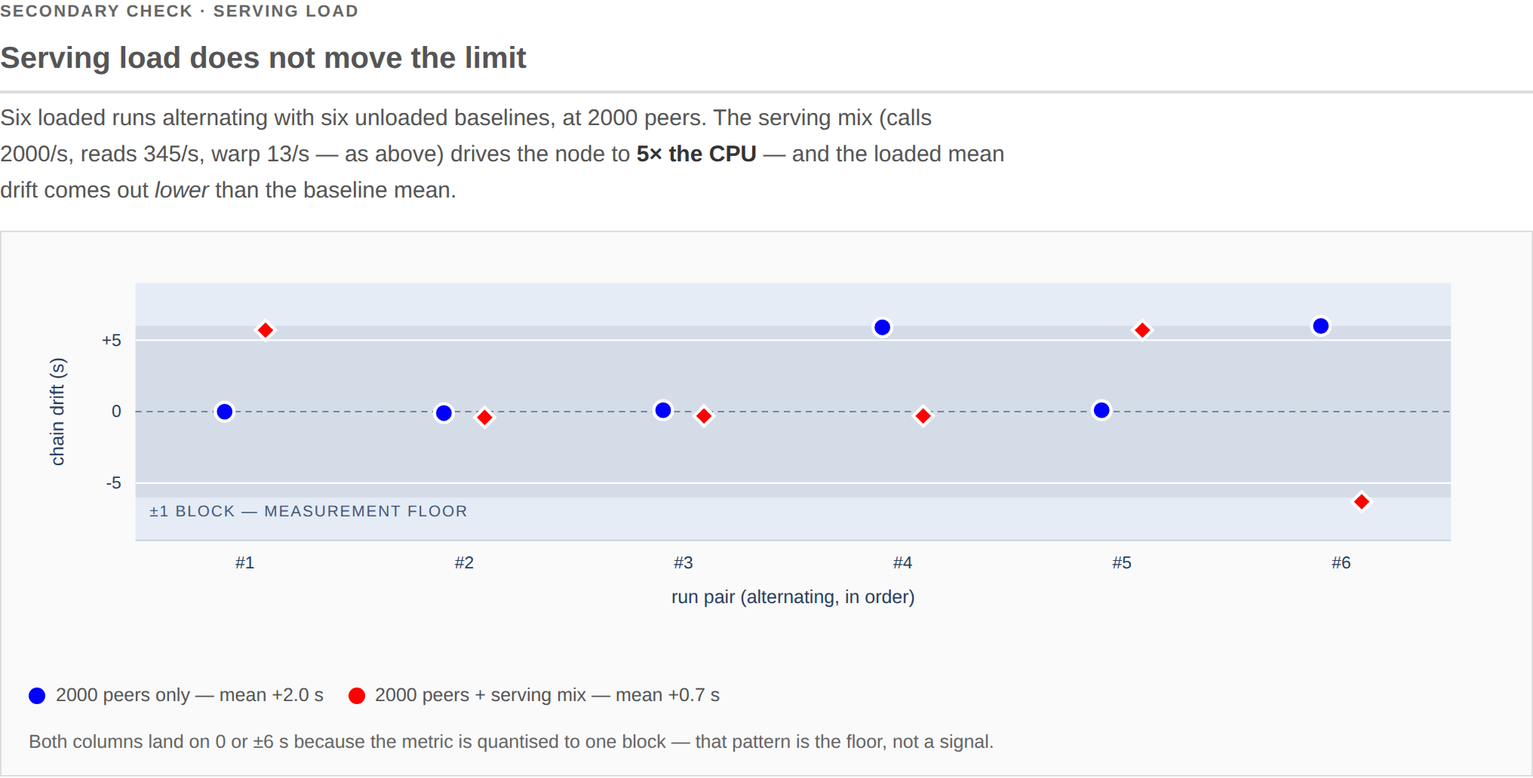
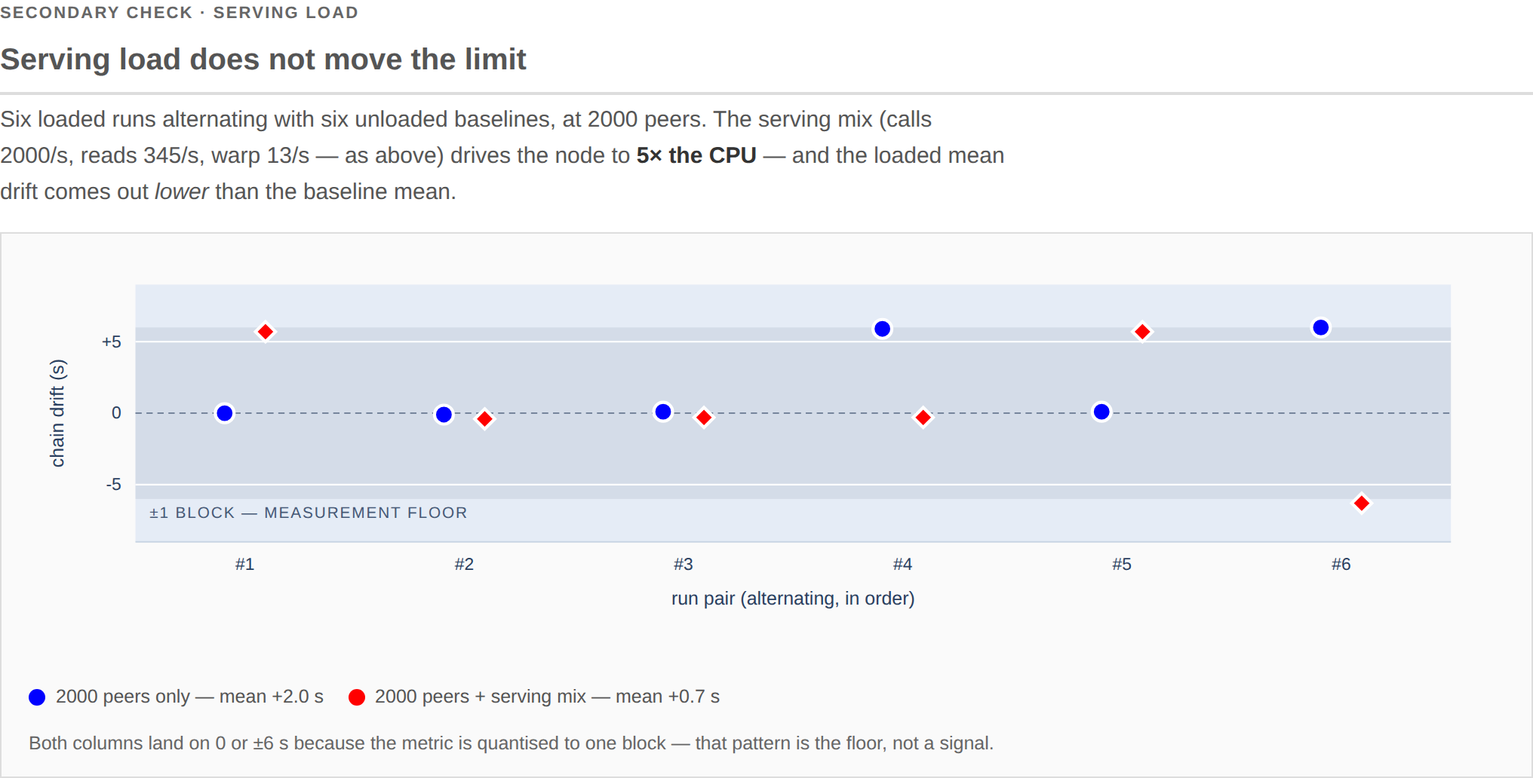
report: 2026-08-09T16:15Z

diff --git a/index.html b/index.html
@@ -87,7 +87,8 @@
   .zero-line { stroke: var(--axis); stroke-width: 1; stroke-dasharray: 4 3; opacity: .55; }
   .tick { font-size: 11px; fill: var(--axis); font-variant-numeric: tabular-nums; }
   .axis-title { font-size: 12px; fill: var(--axis); }
-  .mark-label { font-size: 11px; fill: var(--axis); font-variant-numeric: tabular-nums; font-weight: 700; }
+  .mark-label { font-size: 11px; fill: var(--axis); font-variant-numeric: tabular-nums; font-weight: 700;
+    paint-order: stroke; stroke: var(--plot); stroke-width: 3px; }
   .band-label { font-size: 10px; fill: var(--axis); letter-spacing: .09em; text-transform: uppercase; opacity: .85;
     paint-order: stroke; stroke: var(--plot); stroke-width: 3px; }
 
@@ -233,7 +234,7 @@
       requests. The <strong>serving mix</strong> is that request load: while holding the peers, the
       node also answers runtime-call proofs at 2000/s and runtime-code reads at 345/s (both
       <code>/light/2</code>) plus warp-sync proofs at 13/s (<code>/sync/warp</code>) — each about
-      half of what it can serve solo. Every sample stays within two blocks of zero and 94% within
+      half of what it can serve solo. Every sample stays within two blocks of zero and 96% within
       one — the sawtooth <em>is</em> that quantisation, not the node moving.</p>
     </div>
     <div class="card">
@@ -255,8 +256,10 @@
       <div class="legend" id="l-rsstrace"></div>
       <div class="card-note" id="n-rsstrace">Plotted as growth from each run's start because the
       absolute levels are not comparable: the node was not restarted between runs, and the
-      serving-mix soaks leave memory behind that a load stop does not return. The growth itself
-      is a <em>serving</em> observation — peers alone do not produce it.</div>
+      serving-mix soaks leave memory behind that a load stop does not return. The peers-only run
+      grows too (~200 MB/h at steady connection counts), so the growth is not attributable to
+      serving alone — it is unattributed pending a heap profile. Block import kept pace
+      throughout every run here.</div>
     </div>
     <div class="kpis" id="longkpis"></div>
   </section>
@@ -351,7 +354,7 @@
 </div>
 
 <script>
-const D = {"peerRuns": [{"run": "light-100", "peers": 100, "drift": 1.3, "blocks": 48, "window": 295, "held": 100, "coverage": 100.0, "spread50": 1.3, "spread90": 1.7, "spread99": 2.1, "spreadMax": 3.8, "refused": 0, "evicted": 0, "rss": 1271, "cpu": 46, "fds": 1408, "finlag_mean": 2.9, "finlag_max": 4}, {"run": "light-200", "peers": 200, "drift": 1.3, "blocks": 49, "window": 295, "held": 200, "coverage": 100.0, "spread50": 2.2, "spread90": 2.8, "spread99": 3.1, "spreadMax": 3.5, "refused": 0, "evicted": 0, "rss": 1461, "cpu": 50, "fds": 1344, "finlag_mean": 2.9, "finlag_max": 5}, {"run": "light-500", "peers": 500, "drift": 1.4, "blocks": 46, "window": 295, "held": 500, "coverage": 100.0, "spread50": 5.4, "spread90": 6.4, "spread99": 7.3, "spreadMax": 7.4, "refused": 0, "evicted": 0, "rss": 1568, "cpu": 54, "fds": 1530, "finlag_mean": 2.9, "finlag_max": 4}, {"run": "light-1000-r1", "peers": 1000, "drift": 0.6, "blocks": 49, "window": 301, "held": 1000, "coverage": 100.0, "spread50": 10.0, "spread90": 12.7, "spread99": 14.4, "spreadMax": 15.0, "refused": 0, "evicted": 0, "rss": 1586, "cpu": 63, "fds": 2111, "finlag_mean": 2.9, "finlag_max": 4}, {"run": "light-1000-r2", "peers": 1000, "drift": -5.3, "blocks": 50, "window": 301, "held": 1000, "coverage": 100.0, "spread50": 10.1, "spread90": 11.9, "spread99": 12.7, "spreadMax": 13.7, "refused": 0, "evicted": 0, "rss": 1668, "cpu": 63, "fds": 2184, "finlag_mean": 3.0, "finlag_max": 5}, {"run": "light-2000-r1", "peers": 2000, "drift": -0.9, "blocks": 52, "window": 311, "held": 2000, "coverage": 100.0, "spread50": 19.3, "spread90": 21.9, "spread99": 23.1, "spreadMax": 23.6, "refused": 0, "evicted": 0, "rss": 1806, "cpu": 76, "fds": 3057, "finlag_mean": 3.8, "finlag_max": 5}, {"run": "light-2000-r2", "peers": 2000, "drift": -0.9, "blocks": 49, "window": 311, "held": 2000, "coverage": 100.0, "spread50": 20.0, "spread90": 23.4, "spread99": 1377.5, "spreadMax": 1836.7, "refused": 0, "evicted": 0, "rss": 1909, "cpu": 78, "fds": 3753, "finlag_mean": 3.0, "finlag_max": 5}, {"run": "light-2000-r3", "peers": 2000, "drift": -13.0, "blocks": 52, "window": 311, "held": 2000, "coverage": 100.0, "spread50": 20.2, "spread90": 23.5, "spread99": 27.1, "spreadMax": 39.9, "refused": 0, "evicted": 0, "rss": 1993, "cpu": 78, "fds": 3038, "finlag_mean": 2.9, "finlag_max": 4}, {"run": "light-2000-r4", "peers": 2000, "drift": -0.3, "blocks": 52, "window": 312, "held": 2000, "coverage": 100.0, "spread50": 18.7, "spread90": 22.8, "spread99": 25.4, "spreadMax": 25.9, "refused": 0, "evicted": 0, "rss": 2836, "cpu": 81, "fds": 3319, "finlag_mean": 3.1, "finlag_max": 5}, {"run": "light-3500-r1", "peers": 3500, "drift": -2.5, "blocks": 55, "window": 327, "held": 3500, "coverage": 100.0, "spread50": 33.0, "spread90": 36.9, "spread99": 39.7, "spreadMax": 41.0, "refused": 0, "evicted": 0, "rss": 2424, "cpu": 94, "fds": 5675, "finlag_mean": 3.0, "finlag_max": 5}, {"run": "light-3500-r2", "peers": 3500, "drift": -2.5, "blocks": 53, "window": 327, "held": 3500, "coverage": 100.0, "spread50": 32.6, "spread90": 38.3, "spread99": 47.0, "spreadMax": 64.3, "refused": 0, "evicted": 0, "rss": 2766, "cpu": 99, "fds": 5795, "finlag_mean": 3.3, "finlag_max": 5}, {"run": "light-4250-r1", "peers": 4250, "drift": 14.8, "blocks": 53, "window": 333, "held": 4250, "coverage": 100.0, "spread50": 32.7, "spread90": 39.9, "spread99": 45.9, "spreadMax": 47.5, "refused": 0, "evicted": 0, "rss": 2636, "cpu": 102, "fds": 5402, "finlag_mean": 1.3, "finlag_max": 3}, {"run": "light-4250-r2", "peers": 4250, "drift": 19.9, "blocks": 49, "window": 338, "held": 4250, "coverage": 100.0, "spread50": 33.1, "spread90": 39.3, "spread99": 44.5, "spreadMax": 45.4, "refused": 0, "evicted": 0, "rss": 2660, "cpu": 101, "fds": 5553, "finlag_mean": 1.5, "finlag_max": 4}, {"run": "light-5000-r1", "peers": 5000, "drift": 138.4, "blocks": 32, "window": 342, "held": 5000, "coverage": 100.0, "spread50": 38.2, "spread90": 50.5, "spread99": 51.2, "spreadMax": 64.1, "refused": 0, "evicted": 0, "rss": 2255, "cpu": 104, "fds": 6220, "finlag_mean": 1.1, "finlag_max": 4}, {"run": "light-5000-r2", "peers": 5000, "drift": 18.4, "blocks": 52, "window": 342, "held": 5000, "coverage": 100.0, "spread50": 36.4, "spread90": 46.3, "spread99": 49.6, "spreadMax": 54.8, "refused": 0, "evicted": 0, "rss": 2422, "cpu": 105, "fds": 6202, "finlag_mean": 1.4, "finlag_max": 3}, {"run": "light-5000-r3", "peers": 5000, "drift": 7.1, "blocks": 53, "window": 343, "held": 5000, "coverage": 100.0, "spread50": 36.4, "spread90": 51.6, "spread99": 75.6, "spreadMax": 86.1, "refused": 0, "evicted": 0, "rss": 2404, "cpu": 104, "fds": 6190, "finlag_mean": 1.3, "finlag_max": 3}, {"run": "light-5000-r4", "peers": 5000, "drift": 13.1, "blocks": 54, "window": 343, "held": 5000, "coverage": 100.0, "spread50": 34.8, "spread90": 45.7, "spread99": 49.1, "spreadMax": 52.7, "refused": 0, "evicted": 0, "rss": 2863, "cpu": 111, "fds": 6206, "finlag_mean": 1.8, "finlag_max": 4}], "traces": {"peers-6h": [[0, 0.0], [603, -3.0], [1207, -5.0], [1811, -1.0], [2415, -3.0], [3019, 1.0], [3623, -1.0], [4227, 3.0], [4831, 1.0], [5434, -2.0], [6038, -4.0]], "soak-6h": [[0, 0.0], [603, 3.0], [1206, 6.0], [1809, 3.0], [2412, 6.0], [3015, 3.0], [3618, 6.0], [4221, 3.0], [4824, -0.0], [5427, 3.0], [6030, 0.0], [6633, 3.0], [7237, 7.0], [7840, 4.0], [8443, 7.0], [9046, 4.0], [9649, 7.0], [10252, 4.0], [10855, 1.0], [11458, 4.0], [12061, 1.0], [12664, 4.0], [13267, 1.0], [13870, 4.0], [14474, 8.0], [15077, 5.0], [15680, 8.0], [16283, 5.0], [16886, 2.0], [17489, 5.0], [18092, 2.0], [18696, 0.0], [19300, 4.0], [19904, 8.0], [20507, 5.0], [21111, 3.0]], "soak-12h": [[0, 0.0], [603, 3.0], [1206, 0.0], [1809, 3.0], [2412, -0.0], [3015, -3.0], [3618, 0.0], [4221, -3.0], [4824, 0.0], [5427, 3.0], [6030, 0.0], [6633, 3.0], [7236, 0.0], [7839, 3.0], [8442, 0.0], [9045, -3.0], [9648, 0.0], [10251, -3.0], [10854, 0.0], [11457, -3.0], [12060, 0.0], [12664, 4.0], [13267, 1.0], [13870, 4.0], [14473, 1.0], [15076, -2.0], [15679, 1.0], [16282, -2.0], [16885, 1.0], [17488, 4.0], [18091, -5.0], [18695, -1.0], [19298, 2.0], [19901, 5.0], [20504, 2.0], [21107, -1.0], [21710, 2.0], [22313, -1.0], [22916, 2.0], [23519, -1.0], [24123, -3.0], [24726, -0.0], [25329, 3.0], [25932, -0.0], [26535, 3.0], [27138, -0.0], [27741, 3.0], [28344, 0.0], [28947, -3.0], [29550, -0.0], [30153, -3.0], [30756, 0.0], [31359, -3.0], [31963, 1.0], [32566, 4.0], [33169, 1.0], [33772, 4.0], [34375, 1.0], [34978, -2.0], [35581, 1.0], [36184, -2.0], [36787, 1.0], [37390, -2.0], [37993, 1.0], [38596, -2.0], [39199, 1.0], [39802, 4.0], [40406, 2.0], [41010, 0.0], [41614, -2.0], [42218, 2.0], [42822, 0.0]]}, "rss": {"peers-6h": [[0, 6523], [603, 6728], [1207, 6755], [1811, 6795], [2415, 6845], [3019, 6819], [3623, 6960], [4227, 6896], [4831, 6934], [5434, 6941], [6038, 7000]], "soak-6h": [[0, 3748], [603, 4101], [1206, 4310], [1809, 4336], [2412, 4452], [3015, 4503], [3618, 4653], [4221, 4788], [4824, 4861], [5427, 4961], [6030, 5034], [6633, 5156], [7237, 5276], [7840, 4815], [8443, 4976], [9046, 5050], [9649, 5156], [10252, 5209], [10855, 5259], [11458, 5391], [12061, 5437], [12664, 5491], [13267, 5559], [13870, 5609], [14474, 5663], [15077, 5701], [15680, 5781], [16283, 5732], [16886, 5841], [17489, 5856], [18092, 5565], [18696, 5120], [19300, 5133], [19904, 5123], [20507, 5070], [21111, 5074]], "soak-12h": [[0, 4805], [603, 5182], [1206, 5342], [1809, 5356], [2412, 5413], [3015, 5491], [3618, 5545], [4221, 5540], [4824, 5622], [5427, 5657], [6030, 5840], [6633, 5897], [7236, 5510], [7839, 5537], [8442, 5645], [9045, 5647], [9648, 5690], [10251, 5828], [10854, 5888], [11457, 5982], [12060, 6042], [12664, 6205], [13267, 6205], [13870, 6264], [14473, 6326], [15076, 6494], [15679, 6500], [16282, 6638], [16885, 6793], [17488, 6666], [18091, 6892], [18695, 6528], [19298, 6512], [19901, 6618], [20504, 6662], [21107, 6698], [21710, 6769], [22313, 6844], [22916, 6793], [23519, 6939], [24123, 6974], [24726, 6987], [25329, 7094], [25932, 7096], [26535, 7116], [27138, 7129], [27741, 7182], [28344, 7262], [28947, 7135], [29550, 6754], [30153, 6745], [30756, 6749], [31359, 6834], [31963, 6890], [32566, 6778], [33169, 6879], [33772, 6908], [34375, 6886], [34978, 7046], [35581, 7008], [36184, 7041], [36787, 7165], [37390, 7153], [37993, 7185], [38596, 7313], [39199, 7352], [39802, 7059], [40406, 6599], [41010, 6663], [41614, 6760], [42218, 6869], [42822, 6910]]}, "cpu": {"peers-6h": [[5, 102], [608, 86], [1212, 86], [1816, 68], [2420, 67], [3024, 77], [3628, 76], [4232, 106], [4836, 73], [5439, 83], [6043, 77]], "soak-6h": [[5, 108], [608, 476], [1211, 477], [1814, 464], [2417, 472], [3020, 473], [3623, 493], [4226, 473], [4829, 460], [5433, 470], [6036, 469], [6639, 463], [7242, 476], [7845, 467], [8448, 504], [9051, 468], [9654, 470], [10257, 483], [10860, 486], [11463, 466], [12066, 481], [12670, 472], [13273, 474], [13876, 474], [14479, 476], [15082, 472], [15685, 465], [16288, 492], [16891, 492], [17494, 472], [18097, 63], [18701, 77], [19305, 74], [19909, 88], [20513, 77], [21117, 60]], "soak-12h": [[5, 104], [608, 468], [1211, 472], [1814, 472], [2417, 464], [3020, 476], [3623, 481], [4226, 470], [4829, 465], [5432, 489], [6035, 483], [6638, 477], [7241, 478], [7844, 474], [8447, 473], [9050, 473], [9653, 477], [10256, 465], [10859, 482], [11462, 490], [12066, 470], [12669, 473], [13272, 472], [13875, 469], [14478, 481], [15081, 474], [15684, 466], [16287, 470], [16890, 470], [17493, 481], [18097, 466], [18700, 477], [19303, 476], [19906, 470], [20509, 469], [21112, 498], [21715, 476], [22318, 474], [22921, 468], [23525, 485], [24128, 479], [24731, 476], [25334, 485], [25937, 465], [26540, 471], [27143, 471], [27746, 474], [28349, 484], [28952, 497], [29555, 483], [30158, 487], [30761, 510], [31365, 470], [31968, 463], [32571, 469], [33174, 460], [33777, 469], [34380, 468], [34983, 464], [35586, 460], [36189, 479], [36792, 466], [37395, 475], [37998, 464], [38601, 462], [39204, 458], [39808, 64], [40411, 64], [41015, 75], [41619, 79], [42223, 82], [42827, 52]]}, "mixRuns": [{"run": "rep-base-1", "kind": "base", "i": 1, "drift": 0.0, "cpu": 85}, {"run": "rep-mix-1", "kind": "mix", "i": 1, "drift": 5.7, "cpu": 421}, {"run": "rep-base-2", "kind": "base", "i": 2, "drift": -0.1, "cpu": 88}, {"run": "rep-mix-2", "kind": "mix", "i": 2, "drift": -0.4, "cpu": 423}, {"run": "rep-base-3", "kind": "base", "i": 3, "drift": 0.1, "cpu": 87}, {"run": "rep-mix-3", "kind": "mix", "i": 3, "drift": -0.3, "cpu": 419}, {"run": "rep-base-4", "kind": "base", "i": 4, "drift": 5.9, "cpu": 84}, {"run": "rep-mix-4", "kind": "mix", "i": 4, "drift": -0.3, "cpu": 417}, {"run": "rep-base-5", "kind": "base", "i": 5, "drift": 0.1, "cpu": 86}, {"run": "rep-mix-5", "kind": "mix", "i": 5, "drift": 5.7, "cpu": 417}, {"run": "rep-base-6", "kind": "base", "i": 6, "drift": 6.0, "cpu": 86}, {"run": "rep-mix-6", "kind": "mix", "i": 6, "drift": -6.3, "cpu": 419}], "longRuns": [{"run": "peers-6h", "label": "6 h", "load": "peers only", "drift": -1.0, "hours": 1.78, "cpu": 80, "rss0": 6523, "rssMax": 7127}, {"run": "soak-6h", "label": "6 h", "load": "peers + serving mix", "drift": 1.5, "hours": 6.01, "cpu": 408, "rss0": 3748, "rssMax": 5974}, {"run": "soak-12h", "label": "12 h", "load": "peers + serving mix", "drift": -0.6, "hours": 12.0, "cpu": 442, "rss0": 4805, "rssMax": 7470}]};
+const D = {"peerRuns": [{"run": "light-100", "peers": 100, "drift": 1.3, "blocks": 48, "window": 295, "held": 100, "coverage": 100.0, "spread50": 1.3, "spread90": 1.7, "spread99": 2.1, "spreadMax": 3.8, "refused": 0, "evicted": 0, "rss": 1271, "cpu": 46, "fds": 1408, "finlag_mean": 2.9, "finlag_max": 4}, {"run": "light-200", "peers": 200, "drift": 1.3, "blocks": 49, "window": 295, "held": 200, "coverage": 100.0, "spread50": 2.2, "spread90": 2.8, "spread99": 3.1, "spreadMax": 3.5, "refused": 0, "evicted": 0, "rss": 1461, "cpu": 50, "fds": 1344, "finlag_mean": 2.9, "finlag_max": 5}, {"run": "light-500", "peers": 500, "drift": 1.4, "blocks": 46, "window": 295, "held": 500, "coverage": 100.0, "spread50": 5.4, "spread90": 6.4, "spread99": 7.3, "spreadMax": 7.4, "refused": 0, "evicted": 0, "rss": 1568, "cpu": 54, "fds": 1530, "finlag_mean": 2.9, "finlag_max": 4}, {"run": "light-1000-r1", "peers": 1000, "drift": 0.6, "blocks": 49, "window": 301, "held": 1000, "coverage": 100.0, "spread50": 10.0, "spread90": 12.7, "spread99": 14.4, "spreadMax": 15.0, "refused": 0, "evicted": 0, "rss": 1586, "cpu": 63, "fds": 2111, "finlag_mean": 2.9, "finlag_max": 4}, {"run": "light-1000-r2", "peers": 1000, "drift": -5.3, "blocks": 50, "window": 301, "held": 1000, "coverage": 100.0, "spread50": 10.1, "spread90": 11.9, "spread99": 12.7, "spreadMax": 13.7, "refused": 0, "evicted": 0, "rss": 1668, "cpu": 63, "fds": 2184, "finlag_mean": 3.0, "finlag_max": 5}, {"run": "light-2000-r1", "peers": 2000, "drift": -0.9, "blocks": 52, "window": 311, "held": 2000, "coverage": 100.0, "spread50": 19.3, "spread90": 21.9, "spread99": 23.1, "spreadMax": 23.6, "refused": 0, "evicted": 0, "rss": 1806, "cpu": 76, "fds": 3057, "finlag_mean": 3.8, "finlag_max": 5}, {"run": "light-2000-r2", "peers": 2000, "drift": -0.9, "blocks": 49, "window": 311, "held": 2000, "coverage": 100.0, "spread50": 20.0, "spread90": 23.4, "spread99": 1377.5, "spreadMax": 1836.7, "refused": 0, "evicted": 0, "rss": 1909, "cpu": 78, "fds": 3753, "finlag_mean": 3.0, "finlag_max": 5}, {"run": "light-2000-r3", "peers": 2000, "drift": -13.0, "blocks": 52, "window": 311, "held": 2000, "coverage": 100.0, "spread50": 20.2, "spread90": 23.5, "spread99": 27.1, "spreadMax": 39.9, "refused": 0, "evicted": 0, "rss": 1993, "cpu": 78, "fds": 3038, "finlag_mean": 2.9, "finlag_max": 4}, {"run": "light-2000-r4", "peers": 2000, "drift": -0.3, "blocks": 52, "window": 312, "held": 2000, "coverage": 100.0, "spread50": 18.7, "spread90": 22.8, "spread99": 25.4, "spreadMax": 25.9, "refused": 0, "evicted": 0, "rss": 2836, "cpu": 81, "fds": 3319, "finlag_mean": 3.1, "finlag_max": 5}, {"run": "light-3500-r1", "peers": 3500, "drift": -2.5, "blocks": 55, "window": 327, "held": 3500, "coverage": 100.0, "spread50": 33.0, "spread90": 36.9, "spread99": 39.7, "spreadMax": 41.0, "refused": 0, "evicted": 0, "rss": 2424, "cpu": 94, "fds": 5675, "finlag_mean": 3.0, "finlag_max": 5}, {"run": "light-3500-r2", "peers": 3500, "drift": -2.5, "blocks": 53, "window": 327, "held": 3500, "coverage": 100.0, "spread50": 32.6, "spread90": 38.3, "spread99": 47.0, "spreadMax": 64.3, "refused": 0, "evicted": 0, "rss": 2766, "cpu": 99, "fds": 5795, "finlag_mean": 3.3, "finlag_max": 5}, {"run": "light-4250-r1", "peers": 4250, "drift": 14.8, "blocks": 53, "window": 333, "held": 4250, "coverage": 100.0, "spread50": 32.7, "spread90": 39.9, "spread99": 45.9, "spreadMax": 47.5, "refused": 0, "evicted": 0, "rss": 2636, "cpu": 102, "fds": 5402, "finlag_mean": 1.3, "finlag_max": 3}, {"run": "light-4250-r2", "peers": 4250, "drift": 19.9, "blocks": 49, "window": 338, "held": 4250, "coverage": 100.0, "spread50": 33.1, "spread90": 39.3, "spread99": 44.5, "spreadMax": 45.4, "refused": 0, "evicted": 0, "rss": 2660, "cpu": 101, "fds": 5553, "finlag_mean": 1.5, "finlag_max": 4}, {"run": "light-5000-r1", "peers": 5000, "drift": 138.4, "blocks": 32, "window": 342, "held": 5000, "coverage": 100.0, "spread50": 38.2, "spread90": 50.5, "spread99": 51.2, "spreadMax": 64.1, "refused": 0, "evicted": 0, "rss": 2255, "cpu": 104, "fds": 6220, "finlag_mean": 1.1, "finlag_max": 4}, {"run": "light-5000-r2", "peers": 5000, "drift": 18.4, "blocks": 52, "window": 342, "held": 5000, "coverage": 100.0, "spread50": 36.4, "spread90": 46.3, "spread99": 49.6, "spreadMax": 54.8, "refused": 0, "evicted": 0, "rss": 2422, "cpu": 105, "fds": 6202, "finlag_mean": 1.4, "finlag_max": 3}, {"run": "light-5000-r3", "peers": 5000, "drift": 7.1, "blocks": 53, "window": 343, "held": 5000, "coverage": 100.0, "spread50": 36.4, "spread90": 51.6, "spread99": 75.6, "spreadMax": 86.1, "refused": 0, "evicted": 0, "rss": 2404, "cpu": 104, "fds": 6190, "finlag_mean": 1.3, "finlag_max": 3}, {"run": "light-5000-r4", "peers": 5000, "drift": 13.1, "blocks": 54, "window": 343, "held": 5000, "coverage": 100.0, "spread50": 34.8, "spread90": 45.7, "spread99": 49.1, "spreadMax": 52.7, "refused": 0, "evicted": 0, "rss": 2863, "cpu": 111, "fds": 6206, "finlag_mean": 1.8, "finlag_max": 4}], "traces": {"peers-6h": [[0, 0.0], [603, -3.0], [1207, -5.0], [1811, -1.0], [2415, -3.0], [3019, 1.0], [3623, -1.0], [4227, 3.0], [4831, 1.0], [5434, -2.0], [6038, -4.0], [6642, 0.0], [7246, -2.0], [7850, -4.0], [8454, 0.0], [9058, -2.0], [9662, 2.0], [10266, 0.0], [10869, -3.0], [11473, -5.0], [12077, -1.0], [12681, -3.0], [13285, 1.0], [13889, -1.0], [14493, 3.0], [15097, 1.0], [15700, -2.0], [16304, -4.0], [16908, -6.0], [17512, -2.0], [18116, -4.0], [18720, -0.0], [19324, -2.0], [19928, 2.0], [20532, 0.0], [21136, -2.0]], "soak-6h": [[0, 0.0], [603, 3.0], [1206, 6.0], [1809, 3.0], [2412, 6.0], [3015, 3.0], [3618, 6.0], [4221, 3.0], [4824, -0.0], [5427, 3.0], [6030, 0.0], [6633, 3.0], [7237, 7.0], [7840, 4.0], [8443, 7.0], [9046, 4.0], [9649, 7.0], [10252, 4.0], [10855, 1.0], [11458, 4.0], [12061, 1.0], [12664, 4.0], [13267, 1.0], [13870, 4.0], [14474, 8.0], [15077, 5.0], [15680, 8.0], [16283, 5.0], [16886, 2.0], [17489, 5.0], [18092, 2.0], [18696, 0.0], [19300, 4.0], [19904, 8.0], [20507, 5.0], [21111, 3.0]], "soak-12h": [[0, 0.0], [603, 3.0], [1206, 0.0], [1809, 3.0], [2412, -0.0], [3015, -3.0], [3618, 0.0], [4221, -3.0], [4824, 0.0], [5427, 3.0], [6030, 0.0], [6633, 3.0], [7236, 0.0], [7839, 3.0], [8442, 0.0], [9045, -3.0], [9648, 0.0], [10251, -3.0], [10854, 0.0], [11457, -3.0], [12060, 0.0], [12664, 4.0], [13267, 1.0], [13870, 4.0], [14473, 1.0], [15076, -2.0], [15679, 1.0], [16282, -2.0], [16885, 1.0], [17488, 4.0], [18091, -5.0], [18695, -1.0], [19298, 2.0], [19901, 5.0], [20504, 2.0], [21107, -1.0], [21710, 2.0], [22313, -1.0], [22916, 2.0], [23519, -1.0], [24123, -3.0], [24726, -0.0], [25329, 3.0], [25932, -0.0], [26535, 3.0], [27138, -0.0], [27741, 3.0], [28344, 0.0], [28947, -3.0], [29550, -0.0], [30153, -3.0], [30756, 0.0], [31359, -3.0], [31963, 1.0], [32566, 4.0], [33169, 1.0], [33772, 4.0], [34375, 1.0], [34978, -2.0], [35581, 1.0], [36184, -2.0], [36787, 1.0], [37390, -2.0], [37993, 1.0], [38596, -2.0], [39199, 1.0], [39802, 4.0], [40406, 2.0], [41010, 0.0], [41614, -2.0], [42218, 2.0], [42822, 0.0]]}, "rss": {"peers-6h": [[0, 6523], [603, 6728], [1207, 6755], [1811, 6795], [2415, 6845], [3019, 6819], [3623, 6960], [4227, 6896], [4831, 6934], [5434, 6941], [6038, 7000], [6642, 6945], [7246, 7075], [7850, 7077], [8454, 7075], [9058, 7238], [9662, 7252], [10266, 7201], [10869, 7254], [11473, 6792], [12077, 6902], [12681, 6943], [13285, 7005], [13889, 7087], [14493, 7143], [15097, 7202], [15700, 7147], [16304, 7309], [16908, 7398], [17512, 7345], [18116, 7435], [18720, 7505], [19324, 7526], [19928, 7679], [20532, 7728], [21136, 7695]], "soak-6h": [[0, 3748], [603, 4101], [1206, 4310], [1809, 4336], [2412, 4452], [3015, 4503], [3618, 4653], [4221, 4788], [4824, 4861], [5427, 4961], [6030, 5034], [6633, 5156], [7237, 5276], [7840, 4815], [8443, 4976], [9046, 5050], [9649, 5156], [10252, 5209], [10855, 5259], [11458, 5391], [12061, 5437], [12664, 5491], [13267, 5559], [13870, 5609], [14474, 5663], [15077, 5701], [15680, 5781], [16283, 5732], [16886, 5841], [17489, 5856], [18092, 5565], [18696, 5120], [19300, 5133], [19904, 5123], [20507, 5070], [21111, 5074]], "soak-12h": [[0, 4805], [603, 5182], [1206, 5342], [1809, 5356], [2412, 5413], [3015, 5491], [3618, 5545], [4221, 5540], [4824, 5622], [5427, 5657], [6030, 5840], [6633, 5897], [7236, 5510], [7839, 5537], [8442, 5645], [9045, 5647], [9648, 5690], [10251, 5828], [10854, 5888], [11457, 5982], [12060, 6042], [12664, 6205], [13267, 6205], [13870, 6264], [14473, 6326], [15076, 6494], [15679, 6500], [16282, 6638], [16885, 6793], [17488, 6666], [18091, 6892], [18695, 6528], [19298, 6512], [19901, 6618], [20504, 6662], [21107, 6698], [21710, 6769], [22313, 6844], [22916, 6793], [23519, 6939], [24123, 6974], [24726, 6987], [25329, 7094], [25932, 7096], [26535, 7116], [27138, 7129], [27741, 7182], [28344, 7262], [28947, 7135], [29550, 6754], [30153, 6745], [30756, 6749], [31359, 6834], [31963, 6890], [32566, 6778], [33169, 6879], [33772, 6908], [34375, 6886], [34978, 7046], [35581, 7008], [36184, 7041], [36787, 7165], [37390, 7153], [37993, 7185], [38596, 7313], [39199, 7352], [39802, 7059], [40406, 6599], [41010, 6663], [41614, 6760], [42218, 6869], [42822, 6910]]}, "cpu": {"peers-6h": [[5, 102], [608, 86], [1212, 86], [1816, 68], [2420, 67], [3024, 77], [3628, 76], [4232, 106], [4836, 73], [5439, 83], [6043, 77], [6647, 63], [7251, 62], [7855, 72], [8459, 77], [9063, 57], [9667, 84], [10271, 56], [10875, 87], [11478, 72], [12082, 73], [12686, 102], [13290, 96], [13894, 67], [14498, 88], [15102, 98], [15706, 57], [16310, 80], [16913, 85], [17517, 72], [18121, 61], [18725, 77], [19329, 80], [19933, 88], [20537, 80], [21141, 88]], "soak-6h": [[5, 108], [608, 476], [1211, 477], [1814, 464], [2417, 472], [3020, 473], [3623, 493], [4226, 473], [4829, 460], [5433, 470], [6036, 469], [6639, 463], [7242, 476], [7845, 467], [8448, 504], [9051, 468], [9654, 470], [10257, 483], [10860, 486], [11463, 466], [12066, 481], [12670, 472], [13273, 474], [13876, 474], [14479, 476], [15082, 472], [15685, 465], [16288, 492], [16891, 492], [17494, 472], [18097, 63], [18701, 77], [19305, 74], [19909, 88], [20513, 77], [21117, 60]], "soak-12h": [[5, 104], [608, 468], [1211, 472], [1814, 472], [2417, 464], [3020, 476], [3623, 481], [4226, 470], [4829, 465], [5432, 489], [6035, 483], [6638, 477], [7241, 478], [7844, 474], [8447, 473], [9050, 473], [9653, 477], [10256, 465], [10859, 482], [11462, 490], [12066, 470], [12669, 473], [13272, 472], [13875, 469], [14478, 481], [15081, 474], [15684, 466], [16287, 470], [16890, 470], [17493, 481], [18097, 466], [18700, 477], [19303, 476], [19906, 470], [20509, 469], [21112, 498], [21715, 476], [22318, 474], [22921, 468], [23525, 485], [24128, 479], [24731, 476], [25334, 485], [25937, 465], [26540, 471], [27143, 471], [27746, 474], [28349, 484], [28952, 497], [29555, 483], [30158, 487], [30761, 510], [31365, 470], [31968, 463], [32571, 469], [33174, 460], [33777, 469], [34380, 468], [34983, 464], [35586, 460], [36189, 479], [36792, 466], [37395, 475], [37998, 464], [38601, 462], [39204, 458], [39808, 64], [40411, 64], [41015, 75], [41619, 79], [42223, 82], [42827, 52]]}, "mixRuns": [{"run": "rep-base-1", "kind": "base", "i": 1, "drift": 0.0, "cpu": 85}, {"run": "rep-mix-1", "kind": "mix", "i": 1, "drift": 5.7, "cpu": 421}, {"run": "rep-base-2", "kind": "base", "i": 2, "drift": -0.1, "cpu": 88}, {"run": "rep-mix-2", "kind": "mix", "i": 2, "drift": -0.4, "cpu": 423}, {"run": "rep-base-3", "kind": "base", "i": 3, "drift": 0.1, "cpu": 87}, {"run": "rep-mix-3", "kind": "mix", "i": 3, "drift": -0.3, "cpu": 419}, {"run": "rep-base-4", "kind": "base", "i": 4, "drift": 5.9, "cpu": 84}, {"run": "rep-mix-4", "kind": "mix", "i": 4, "drift": -0.3, "cpu": 417}, {"run": "rep-base-5", "kind": "base", "i": 5, "drift": 0.1, "cpu": 86}, {"run": "rep-mix-5", "kind": "mix", "i": 5, "drift": 5.7, "cpu": 417}, {"run": "rep-base-6", "kind": "base", "i": 6, "drift": 6.0, "cpu": 86}, {"run": "rep-mix-6", "kind": "mix", "i": 6, "drift": -6.3, "cpu": 419}], "longRuns": [{"run": "peers-6h", "label": "6 h", "load": "peers only", "drift": 0.6, "hours": 6.0, "cpu": 80, "rss0": 6523, "rssMax": 7809}, {"run": "soak-6h", "label": "6 h", "load": "peers + serving mix", "drift": 1.5, "hours": 6.01, "cpu": 408, "rss0": 3748, "rssMax": 5974}, {"run": "soak-12h", "label": "12 h", "load": "peers + serving mix", "drift": -0.6, "hours": 12.0, "cpu": 442, "rss0": 4805, "rssMax": 7470}]};
 
 const el = (t, a) => { const n = document.createElementNS("http://www.w3.org/2000/svg", t);
   for (const k in a) n.setAttribute(k, a[k]); return n; };
@@ -540,13 +543,14 @@ function costChart(svgId, tipId, key, unit, yl) {
   b.y = v => b.t + b.h - (v - ymin) / (ymax - ymin) * b.h;
   frame(svg, b, ticks(0, tmax, 6), ticks(ymin, ymax, 5), "hours into run", "ΔRSS since run start (MB)",
     v => (v / 3600).toFixed(0) + "h", v => fmt(v, 0));
-  series.forEach(s => {
+  series.forEach((s, si) => {
     svg.appendChild(el("path", { d: s.pts.map((p, i) => (i ? "L" : "M") + b.x(p[0]) + "," + b.y(p[1])).join(" "),
       style: `fill:none;stroke:${s.c}` + (s.dash ? `;stroke-dasharray:${s.dash}` : ""),
       "stroke-width": 2, "stroke-linejoin": "round", "stroke-linecap": "round" }));
     const last = s.pts[s.pts.length - 1];
     svg.appendChild(el("circle", { cx: b.x(last[0]), cy: b.y(last[1]), r: 4.5, style: `fill:${s.c};stroke:var(--surface)`, "stroke-width": 2 }));
-    const t = el("text", { x: b.x(last[0]) - 8, y: b.y(last[1]) - 9, class: "mark-label", "text-anchor": "end" });
+    // first series labels below its endpoint, the rest above — their endpoints can sit close
+    const t = el("text", { x: b.x(last[0]) - 8, y: b.y(last[1]) + (si === 0 ? 19 : -9), class: "mark-label", "text-anchor": "end" });
     t.textContent = fmt(last[1], 0) + " MB"; svg.appendChild(t);
     s.pts.forEach(p => {
       const h = el("circle", { cx: b.x(p[0]), cy: b.y(p[1]), r: 9, fill: "transparent" });
